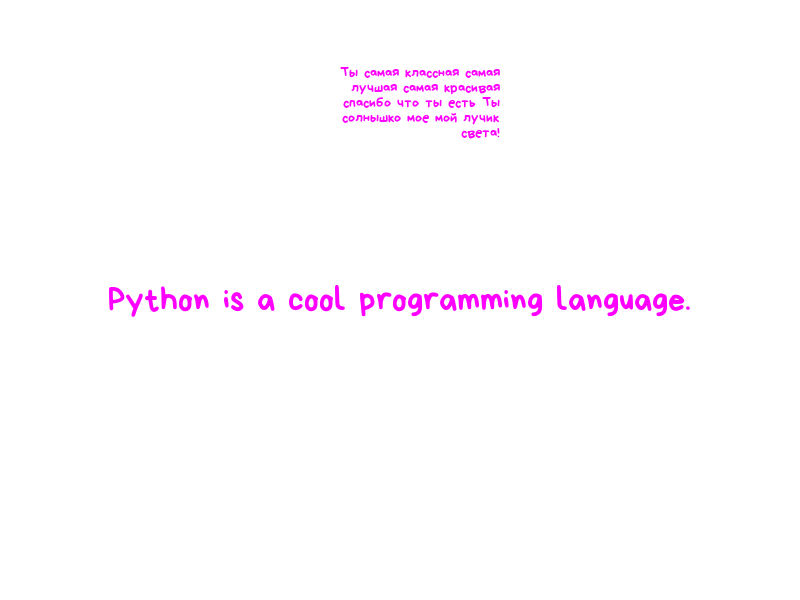
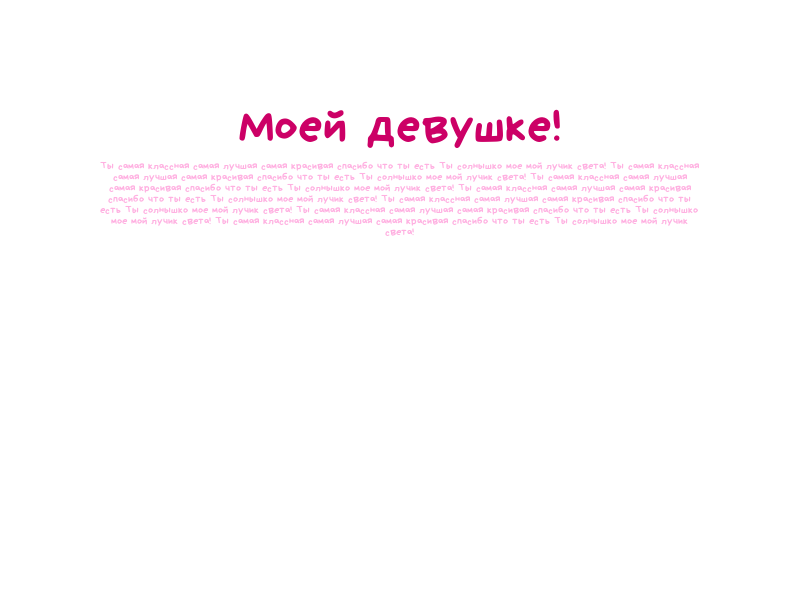
working text renderer

Changed region(s): [[0.125, 0.27, 0.875, 0.39], [0.125, 0.48, 0.875, 0.54], [0.2812, 0.09, 0.7188, 0.24]]

diff --git a/models/image_text.py b/models/image_text.py
@@ -1,3 +1,5 @@
+from functools import wraps
+
 from PIL import Image
 from PIL import ImageDraw
 from PIL import ImageFont
@@ -5,19 +7,59 @@ from PIL import ImageFont
 from models.palette import Palette
 
 
-class ImageText():
+SYMBOL_LIMIT = 1000
+TITLE_SYMBOL_LIMIT = 69
+
+
+# TODO: refactor this class
+# TODO: document this class
+# TODO: add types
+# TODO: integrate with PIL Image class (paste text on PIL Image)
+
+class ImageText:
     def __init__(self, size: tuple[int, int], font_path: str, palette: Palette):
         self.size = size
         self.font_path = font_path
         self.palette = palette
         self.background = Image.new('RGBA', self.size, color=(0, 0, 0, 0))
         self.draw = ImageDraw.Draw(self.background)
-    
-    def get_font_size(self, text, max_width=None, max_height=None):
+
+    def write_title(
+        self, 
+        pos, 
+        text, 
+        max_width=None, 
+        max_height=None
+    ):
+        if len(text) >= TITLE_SYMBOL_LIMIT:
+            return False
+        return self._write_text(
+            pos, text, None, None, max_width, max_height
+        )
+
+    def write_additional_text(
+        self,
+        pos, 
+        text, 
+        box_width,
+        font_size=11, 
+        place='center'
+    ):
+        if len(text) >= SYMBOL_LIMIT:
+            return False
+        return self._write_text_in_box(
+            pos, text, box_width, font_size, place
+        )
+
+    def _get_text_size(self, font_size, text):
+        font = ImageFont.truetype(self.font_path, font_size)
+        return font.getsize(text)
+
+    def _get_font_size(self, text, max_width=None, max_height=None):
         if max_width is None and max_height is None:
             raise ValueError('You need to pass max_width or max_height')
         font_size = 1
-        text_size = self.get_text_size(font_size, text)
+        text_size = self._get_text_size(font_size, text)
         if (max_width is not None and text_size[0] > max_width) or \
            (max_height is not None and text_size[1] > max_height):
             raise ValueError(f"Text can't be filled in only (%dpx, %dpx)" % \
@@ -27,37 +69,37 @@ class ImageText():
                (max_height is not None and text_size[1] >= max_height):
                 return font_size - 1
             font_size += 1
-            text_size = self.get_text_size(font_size, text)
+            text_size = self._get_text_size(font_size, text)
 
-    def write_text(self, pos, text, color=(0, 0, 0), 
-                    font_size=None, max_width=None, max_height=None):
-        if font_size is None and (max_width is not None or max_height is not None):
-            font_size = self.get_font_size(text, max_width, max_height)
-        text_size = self.get_text_size(font_size, text)
+    def _write_text(self, pos, text, font_size=None, color=None, 
+                    max_width=None, max_height=None):
+        if color is None:
+            color = self.palette.accent_color
         
-        if pos is None:
+        if font_size is None and (max_width is not None or max_height is not None):
+            font_size = self._get_font_size(text, max_width, max_height)
+        text_size = self._get_text_size(font_size, text)
+        
+        x, y = pos
+        if x is None:
             x = (self.size[0] - text_size[0]) / 2
+        if y is None:
             y = (self.size[1] - text_size[1]) / 2
-        else:
-            x, y = pos
             
         font = ImageFont.truetype(self.font_path, font_size)
         self.draw.text((x, y), text, font=font, fill=color)
         return text_size
 
-    def get_text_size(self, font_size, text):
-        font = ImageFont.truetype(self.font_path, font_size)
-        return font.getsize(text)
-
-    def write_text_box(self, pos, text, box_width,
-                       font_size=11, color=(0, 0, 0), place='left'):
+    def _write_text_in_box(self, pos, text, box_width,
+                       font_size=11, place='left'):
+        color = self.palette.additional_color
         x, y = pos
         lines = []
         line = []
         words = text.split()
         for word in words:
             new_line = ' '.join(line + [word])
-            size = self.get_text_size(font_size, new_line)
+            size = self._get_text_size(font_size, new_line)
             text_height = size[1]
             if size[0] <= box_width:
                 line.append(word)
@@ -68,17 +110,18 @@ class ImageText():
             lines.append(line)
         lines = [' '.join(line) for line in lines if line]
         height = y
+
+        # TODO: add box_height somehow
         for line in lines:
             height += text_height
             if place == 'left':
-                self.write_text((x, height), line, font_size, color)
+                self._write_text((x, height), line, font_size, color)
             elif place == 'right':
-                total_size = self.get_text_size(font_size, line)
+                total_size = self._get_text_size(font_size, line)
                 x_left = x + box_width - total_size[0]
-                self.write_text((x_left, height), line,
-                                font_size, color)
+                self._write_text((x_left, height), line, font_size, color)
             elif place == 'center':
-                total_size = self.get_text_size(font_size, line)
+                total_size = self._get_text_size(font_size, line)
                 x_left = int(x + ((box_width - total_size[0]) / 2))
-                self.write_text((x_left, height), line, font_size, color)
+                self._write_text((x_left, height), line, font_size, color)
         return (box_width, height - y)

diff --git a/fit_text.py b/fit_text.py
@@ -1,24 +1,22 @@
 from models.preset import Preset
-from image_utils import ImageText
+from models.image_text import ImageText
 
 color = (255, 0, 255)
-text = 'Ты самая классная самая лучшая самая красивая спасибо что ты есть\n\nТы солнышко мое мой лучик света!'
+text = ' Ты самая классная самая лучшая самая красивая спасибо что ты есть\n\nТы солнышко мое мой лучик света!'
 font = './static/fonts/BryndanWriteBook.ttf'
-img = ImageText((800, 600), font, Preset.GREEN)
+img = ImageText((800, 600), font, Preset.NEON)
 
-#write_text_box will split the text in many lines, based on box_width
-#`place` can be 'left' (default), 'right', 'center' or 'justify'
-#write_text_box will return (box_width, box_calculed_height) so you can
-#know the size of the wrote text
 
-img.write_text_box((300, 50), text * 1, box_width=200,
-                   font_size=15, color=color, place="right")
+def main():
+    y = 100
+    result = img.write_title((None, y), "Моей девушке!", 
+                    max_height=50, max_width=600)
+    if not result:
+        return
 
-# You don't need to specify text size: can specify max_width or max_height
-# and tell write_text to fill the text in this space, so it'll compute font
-# size automatically
-#write_text will return (width, height) of the wrote text
-img.write_text(None, "Python is a cool programming language.", 
-                max_height=250, max_width=600, color=color)
+    result = img.write_additional_text((100, y + result[1]), text * 7, box_width=600,
+                    font_size=11, place="center")
+    img.background.save('sample-imagetext.png')
 
-img.background.save('sample-imagetext.png')
+
+main()

diff --git a/models/preset.py b/models/preset.py
@@ -15,7 +15,13 @@ class Preset:
     CYAN = Palette("#38646b", "#16b199", "#3be0c3")
 
     # multicolor presets
-    NEON = Palette((255, 38, 143), (182, 148, 255), (83, 174, 252))
+    NEON = Palette(
+        (255, 38, 143), 
+        (182, 148, 255), 
+        (83, 174, 252), 
+        (204, 0, 102), 
+        (255, 176, 225)
+    )
     LIME = Palette((31, 138, 15), (149, 255, 99), (240, 255, 33))
     DARK_SKY = Palette((22, 5, 51), (23, 26, 92), (71, 12, 33))
     
